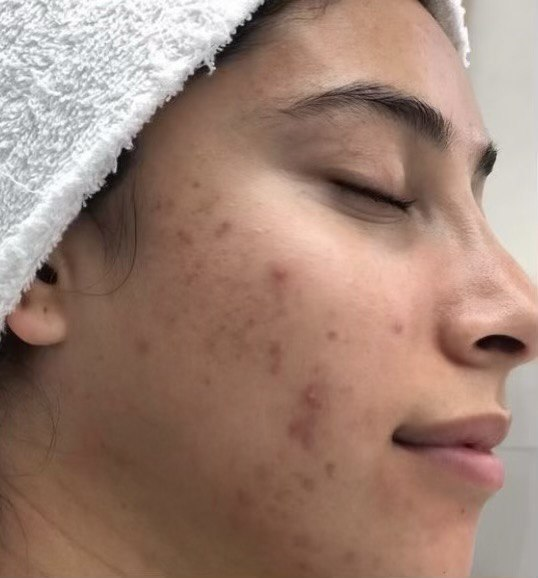
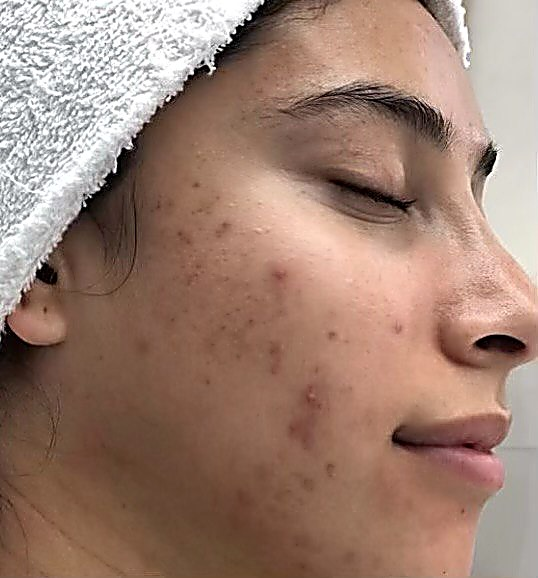
Resize founder before/after and sharpen before

diff --git a/src/app/page.tsx b/src/app/page.tsx
@@ -393,25 +393,23 @@ export default function Home() {
             </div>
           </div>
           <div className="mt-6 grid gap-4 rounded-[28px] border border-white/70 bg-white/90 p-4 shadow-sm md:grid-cols-2">
-            <div className="relative overflow-hidden rounded-[18px]">
+            <div className="relative aspect-[4/3] overflow-hidden rounded-[18px] bg-white/60">
               <Image
                 src="/images/glow-before.jpg"
                 alt="Zee before"
-                width={900}
-                height={1200}
-                className="h-full w-full object-cover"
+                fill
+                className="object-contain"
               />
               <span className="absolute bottom-2 left-2 rounded-full bg-black/60 px-2 py-1 text-[10px] font-semibold uppercase tracking-wider text-white">
                 Before
               </span>
             </div>
-            <div className="relative overflow-hidden rounded-[18px]">
+            <div className="relative aspect-[4/3] overflow-hidden rounded-[18px] bg-white/60">
               <Image
                 src="/images/glow-after.jpg"
                 alt="Zee after"
-                width={900}
-                height={1200}
-                className="h-full w-full object-cover"
+                fill
+                className="object-contain"
               />
               <span className="absolute bottom-2 right-2 rounded-full bg-black/60 px-2 py-1 text-[10px] font-semibold uppercase tracking-wider text-white">
                 After
